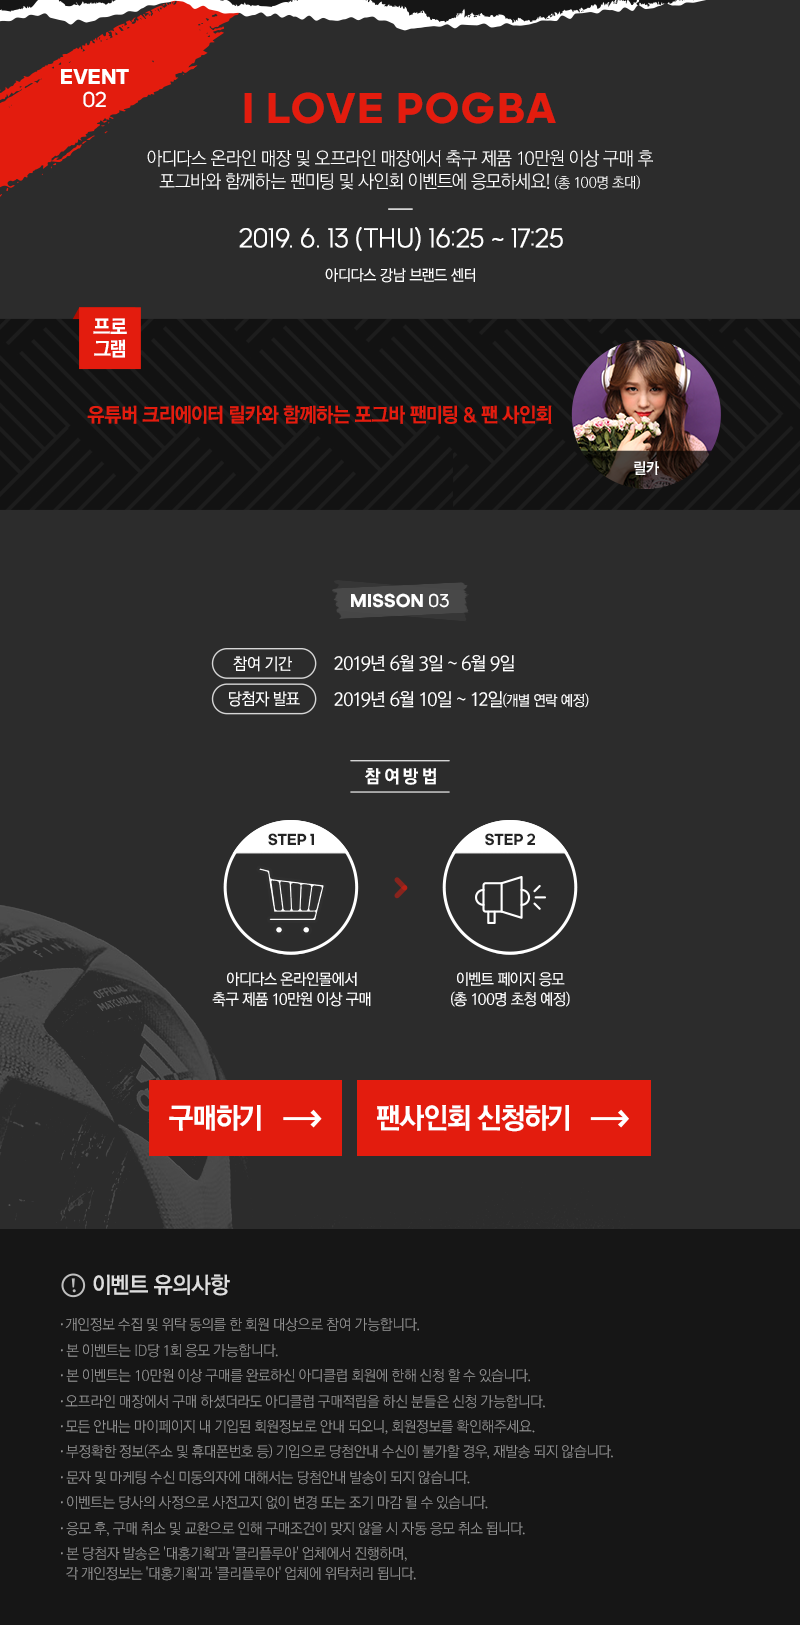
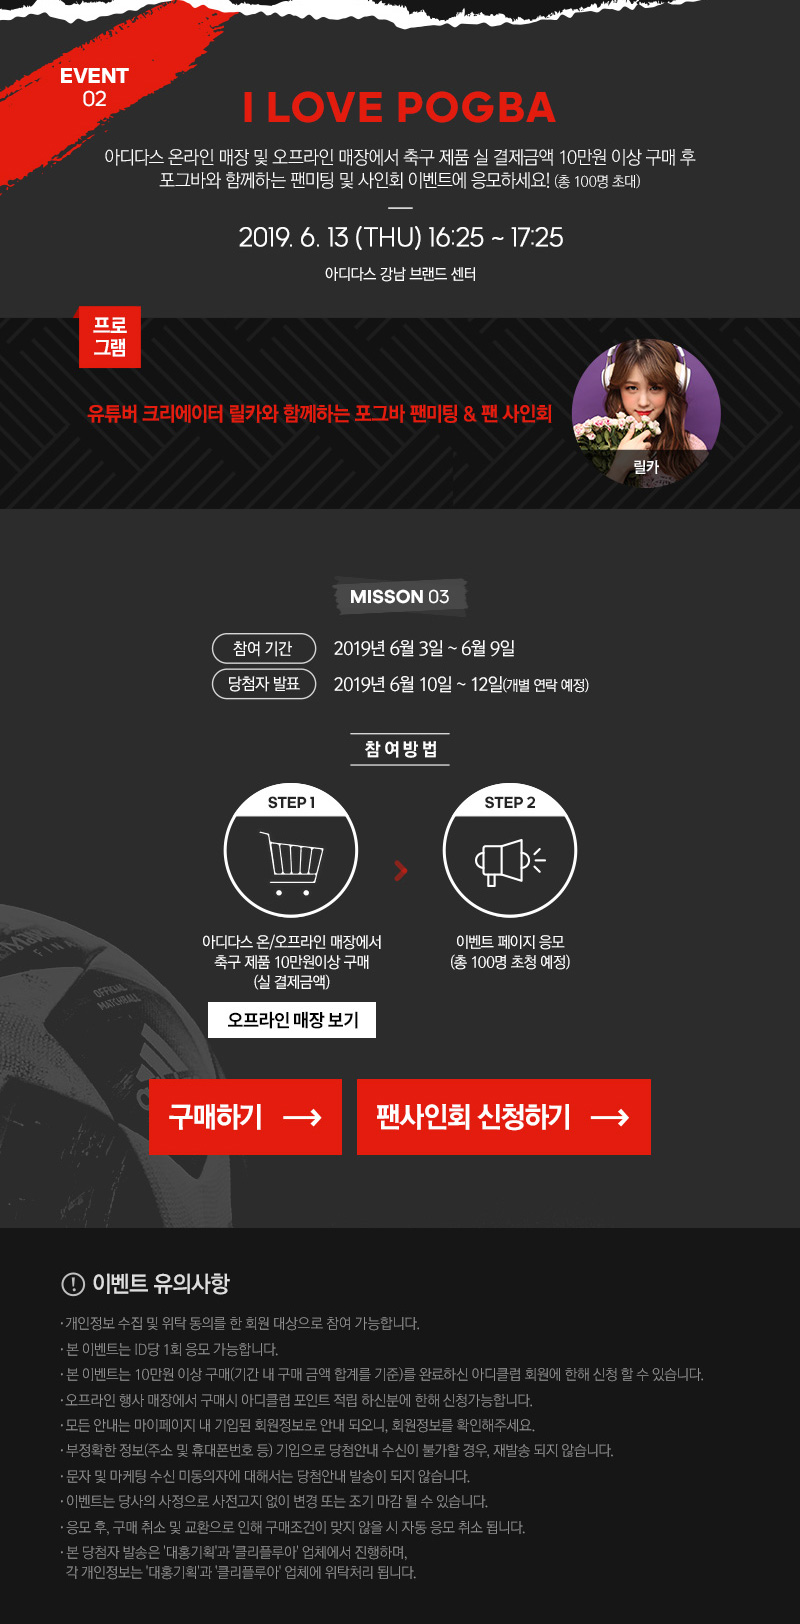
adi_EVT_포그바 이벤트 버튼 추가

diff --git a/mobile/html/adidas/2019/campaign/190603/index.html b/mobile/html/adidas/2019/campaign/190603/index.html
@@ -449,9 +449,10 @@
                     <!-- <img src="http://imagem.adidas.co.kr/html/adidas/2019/campaign/190531/190531_pogba_EVT01_MO.jpg" alt="" style="width:100%;">                 -->
                    <img src="http://imagem.adidas.co.kr/html/adidas/2019/campaign/190603/EVT01_MO.jpg" alt="" style="width:100%;">                
                    <img src="http://imagem.adidas.co.kr/html/adidas/2019/campaign/190603/EVT02_MO.jpg" alt="" style="width:100%;">                
-                   <img src="http://imagem.adidas.co.kr/html/adidas/2019/campaign/190603/EVT03_MO.jpg" alt="" style="width:100%;">                
+                   <img src="/html/adidas/2019/campaign/190603/EVT03_MO.jpg" alt="" style="width:100%;">                
                    <a onfocus="this.blur();" href="https://m.adidas.co.kr/MO/Product/sportsPrdList.action?brand_cd=1&ctgr_gb=001&ctgr_chk=&term=#brand_cd=1&ctgr_gb=001&strPage=1&term=1&sQuick=N" style="display: inline-block;position: absolute;top: 89.6%;left:18.5%;width: 24.5%;height: 1.5%;text-indent: -5000px;" target="_blank">구매하기</a>
                    <a onfocus="this.blur();" href="javascript:void(0)" style="display: inline-block;position: absolute;top: 89.6%;left:44.5%;width: 37%;height: 1.5%;text-indent: -5000px;" target="_blank">팬사인회 신청하기</a>
+                   <a onfocus="this.blur();" href="https://m.adidas.co.kr/MO/Customer/customerStoreList.action?EVENT_ID=6625" style="display: inline-block;position: absolute;top: 88.15%;left:26%;width: 21%;height: 0.7%;text-indent: -5000px;" target="_blank">오프라인 매장 보기</a>
                </div>
                <!-- 작업영역 끝 -->
 
